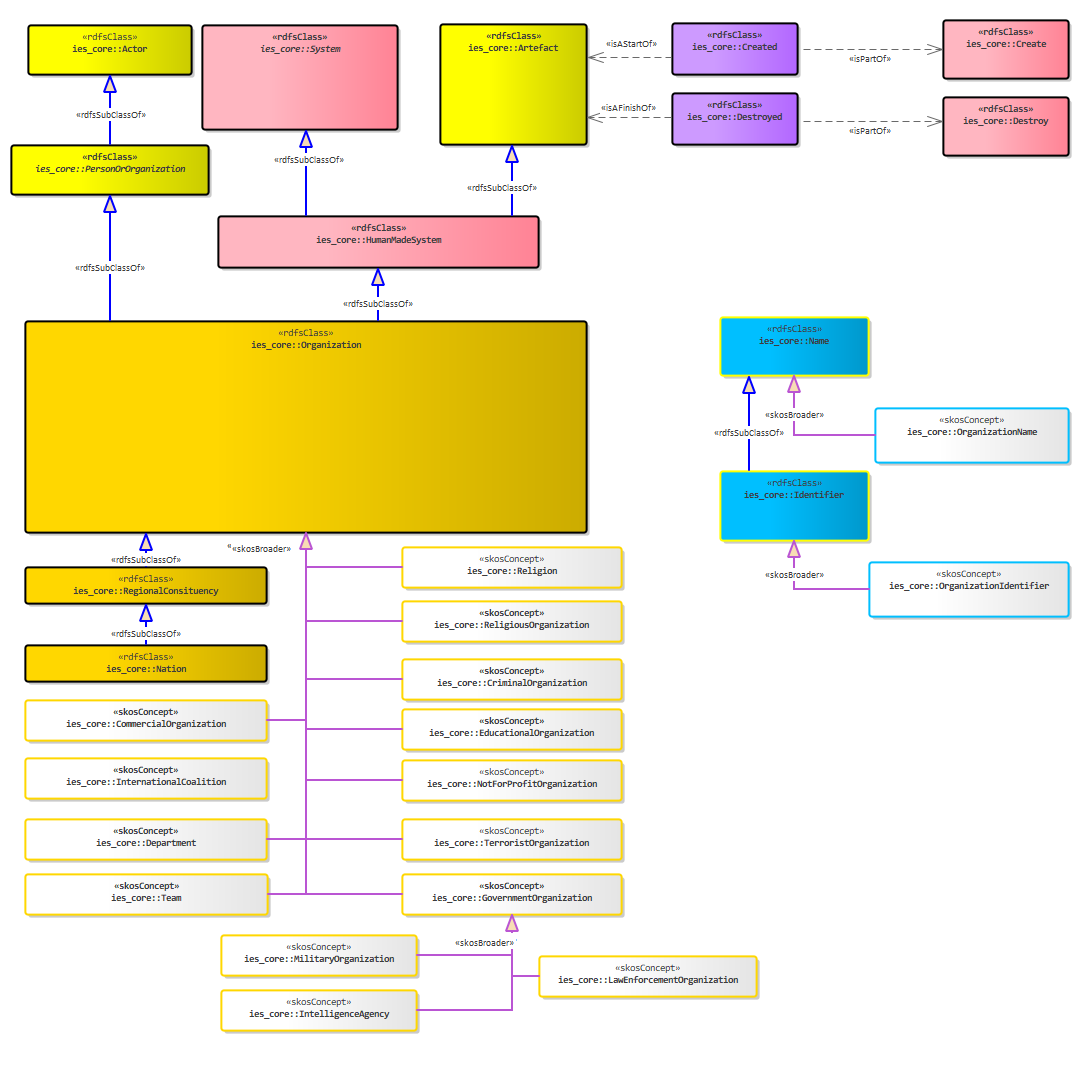
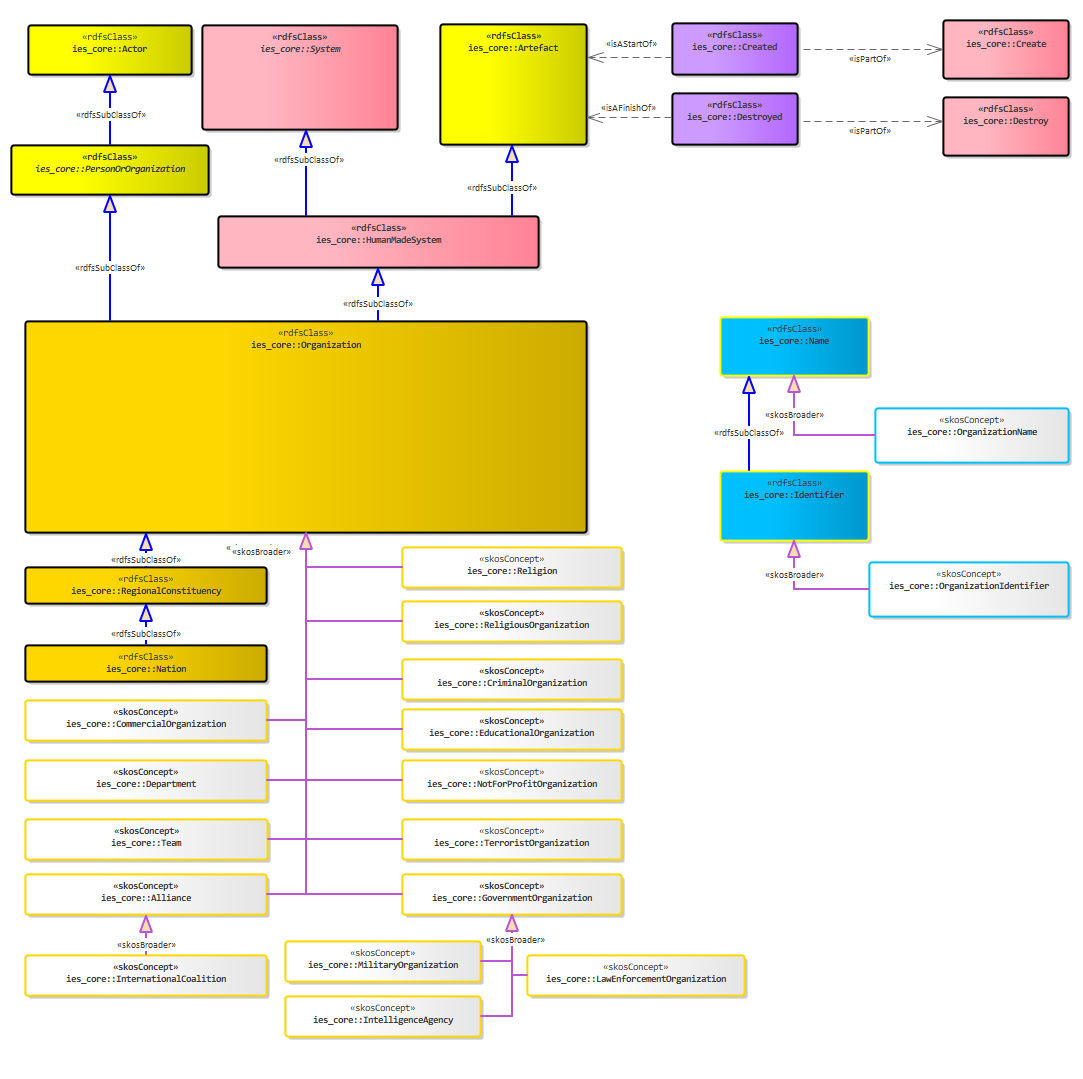
fix: RegionsConstituency typo and spokeLanguage domain

diff --git a/docs/ies-core.md b/docs/ies-core.md
@@ -74,9 +74,9 @@ IES-Core is built upon IES-Top providing a common foundational layer of patterns
 
 IES-Core extends IES-Top into 3 major ways.
 <ol>
-    <li>It extends <i>State</i> to allow us to talk about familiar tangible individuals -known as <i>Entities </i>in IES4. These include living individuals (<i>LivingOrganism</i>), human-made objects (<i>Artefact</i>), places (<i>Location</i>), individuals capable of conscious action or can effect change on the world (<i>Actor</i>) and individuals that symbolize or signify other individuals (<i>Sign</i>). These categories can naturally overlap, for example, a person is both a <i>LivingOrganism</i> and an <i>Actor</i>. IES-Core embraces such multiple inheritance, producing a flatter, more flexible hierarchy than IES4.</li>
-    <li>It extends <i>State</i> to provide mechanisms to describe how states combine (fuse) to form new states of interest: an <i>Activity</i> (<i>Event</i> in IES4), which is a fusion of temporal parts (<i>Participations</i>) of other states (e.g. participations of persons to make a <i>Meeting)</i>; <i>System, </i>which is the fusion of dependent states of which make up a system and which cannot exist without (e.g. a motorized road vehicle - made up of an engine, a chassis and wheels). Note, even seemingly tangible individuals can be treated as a <i>Systems</i> - e.g. <i>Vehicle</i>, is both an <i>Artefact</i> and a <i>System.</i> It is often useful with systems to see their parts as being <i>Installed</i> or removed but also call out the identity of dependent parts that endure. This persistence lets us refer to those parts even when they're temporarily uninstalled - for instance, the front-right wheel of a car, regardless of which actual wheel is installed at a given time. <i>ReplaceableLifespan</i> provides this timeless component but also can be used for other individuals that are replaceable outside systems e.g. the CEO of a company or the head of state of a nation.</li>
-    <li>Extends <i>Timespans</i> to represent timestamps, periods, durations, and recurrences in a 4D-faithful manner, while ensuring interoperability with common computer standards such as ISO 8601.</li>
+	<li>It extends <i>State</i> to allow us to talk about familiar tangible individuals -known as <i>Entities </i>in IES4. These include living individuals (<i>LivingOrganism</i>), human-made objects (<i>Artefact</i>), places (<i>Location</i>), individuals capable of conscious action or can effect change on the world (<i>Actor</i>) and individuals that symbolize or signify other individuals (<i>Sign</i>). These categories can naturally overlap, for example, a person is both a <i>LivingOrganism</i> and an <i>Actor</i>. IES-Core embraces such multiple inheritance, producing a flatter, more flexible hierarchy than IES4.</li>
+	<li>It extends <i>State</i> to provide mechanisms to describe how states combine (fuse) to form new states of interest: an <i>Activity</i> (<i>Event</i> in IES4), which is a fusion of temporal parts (<i>Participations</i>) of other states (e.g. participations of persons to make a <i>Meeting)</i>; <i>System, </i>which is the fusion of dependent states of which make up a system and which cannot exist without (e.g. a motorized road vehicle - made up of an engine, a chassis and wheels). Note, even seemingly tangible individuals can be treated as a <i>Systems</i> - e.g. <i>Vehicle</i>, is both an <i>Artefact</i> and a <i>System.</i> It is often useful with systems to see their parts as being <i>Installed</i> or removed but also call out the identity of dependent parts that endure. This persistence lets us refer to those parts even when they're temporarily uninstalled - for instance, the front-right wheel of a car, regardless of which actual wheel is installed at a given time. <i>ReplaceableLifespan</i> provides this timeless component but also can be used for other individuals that are replaceable outside systems e.g. the CEO of a company or the head of state of a nation.</li>
+	<li>Extends <i>Timespans</i> to represent timestamps, periods, durations, and recurrences in a 4D-faithful manner, while ensuring interoperability with common computer standards such as ISO 8601.</li>
 </ol>
 
 ## <a id="0413ea99-33f2-49f1-8418-3b75ee5ff050"></a>Where and When
@@ -237,11 +237,11 @@ Historically, most IES extensions have been purely <i>taxonomic</i> - adding nar
 To better support this common use case, IES-Core now adopts <b>SKOS</b> (Simple Knowledge Organization System) -a lightweight RDF-based standard for controlled vocabularies such as glossaries and taxonomies.
 SKOS will be used for extending IES in the following way:
 <ol>
-    <li><ol>
-    <li>Taxonomic extensions to IES are to be defined as instances of skos:Concept.</li>
-    <li>The skos:broader property is to be used to make a link from a skos:Concept to its parent IES class(es) (or another skos:Concept). skos:narrower shall not be used for links to IES classes - skos:broader already implies the inverse relationship and avoids extra handling for consumers.</li>
-    <li>Instances remain typed using rdf:type, whose range must always be an IES class - even when an extension concept is associated.</li>
-    <li>The ies:category - a property in the IES-Core ontology, shall be then used to link an instance of an IES class to a skos:Concept. This is what further defines it (taxonomically) as a new extension.</li>
+	<li><ol>
+	<li>Taxonomic extensions to IES are to be defined as instances of skos:Concept.</li>
+	<li>The skos:broader property is to be used to make a link from a skos:Concept to its parent IES class(es) (or another skos:Concept). skos:narrower shall not be used for links to IES classes - skos:broader already implies the inverse relationship and avoids extra handling for consumers.</li>
+	<li>Instances remain typed using rdf:type, whose range must always be an IES class - even when an extension concept is associated.</li>
+	<li>The ies:category - a property in the IES-Core ontology, shall be then used to link an instance of an IES class to a skos:Concept. This is what further defines it (taxonomically) as a new extension.</li>
 </ol>
 </li>
 </ol>
@@ -562,7 +562,7 @@ A <i>Ticket </i>is an <i>WorkOfDocumentation</i> that authorises access to an <i
 * [hasEthnicity](#4495f6db-149a-4866-b2d3-ceed4324ff1d)
 * [Ethnicity](#ae3d9f2d-2616-4b33-bc0a-360a947bfefc)
 * [Nation](#8adf110d-ef60-4f98-8d29-bdb92ac83537)
-* [RegionalConsituency](#de6b8201-3ff0-4dba-9b2a-01bb02dc6ec3)
+* [RegionalConstituency](#de6b8201-3ff0-4dba-9b2a-01bb02dc6ec3)
 * [Organization](#e09d8f52-5b28-4ee6-af3a-935467b8dc45)
 * [Characteristic](#2085ee5c-09ce-4467-bc60-5bb5c7af4f02)
 * [hasSkill](#ee39e108-9618-4d52-9e32-e4b4382aef4a)
@@ -595,7 +595,7 @@ In IES-Core the associations of a <i>Person</i> to their nationality, religion o
 * [HumanMadeSystem](#f6b05d87-5fd9-437d-b2b2-366407489912)
 * [Organization](#e09d8f52-5b28-4ee6-af3a-935467b8dc45)
 * [Nation](#8adf110d-ef60-4f98-8d29-bdb92ac83537)
-* [RegionalConsituency](#de6b8201-3ff0-4dba-9b2a-01bb02dc6ec3)
+* [RegionalConstituency](#de6b8201-3ff0-4dba-9b2a-01bb02dc6ec3)
 * [PersonOrOrganization](#cc6c3605-ccf7-4f23-af4c-0be46f1fb5f5)
 * [Actor](#91dc289a-74a8-40b9-b737-feaa7424bc6c)
 * [Create](#45077eab-0722-43ab-a74b-3f5266739752)
@@ -1541,7 +1541,7 @@ December 1944
 
 
 ### <a id="741940e7-e8c9-4ac5-84d5-587edf94316a"></a>PartNumber
-A unique Identifier for the a HumanMadeSystem. Note: this is different to a serial number which is unique to each HumanMadeSystem.
+A unique Identifier for the a HumanMadeSystem. Note:  this is different to a serial number which is unique to each HumanMadeSystem.
 
 ### <a id="22ff57c4-8d8e-4dd9-9a13-c1bf545a76b5"></a>PartOfFacility
 A <a href="#E1A494ED-D493-44ab-8BF9-ABC6889D4D9A"><font color="#0000ff"><u>Location</u></font></a> that is contained within a Facility - e.g. a room, laboratory, floor, etc.
@@ -1601,7 +1601,7 @@ ParticularPeriod of publication of the respective document.
 ### <a id="6b68585b-ab19-48a0-8254-1d6768f88833"></a>RecurringTimespan
 
 
-### <a id="de6b8201-3ff0-4dba-9b2a-01bb02dc6ec3"></a>RegionalConsituency
+### <a id="de6b8201-3ff0-4dba-9b2a-01bb02dc6ec3"></a>RegionalConstituency
 An Organization of human members associated with a specific Location, forming a unified, spatiotemporally bounded collective actor.  The people can be residing or entitled to reside or vote in a particular Location.
 
 
